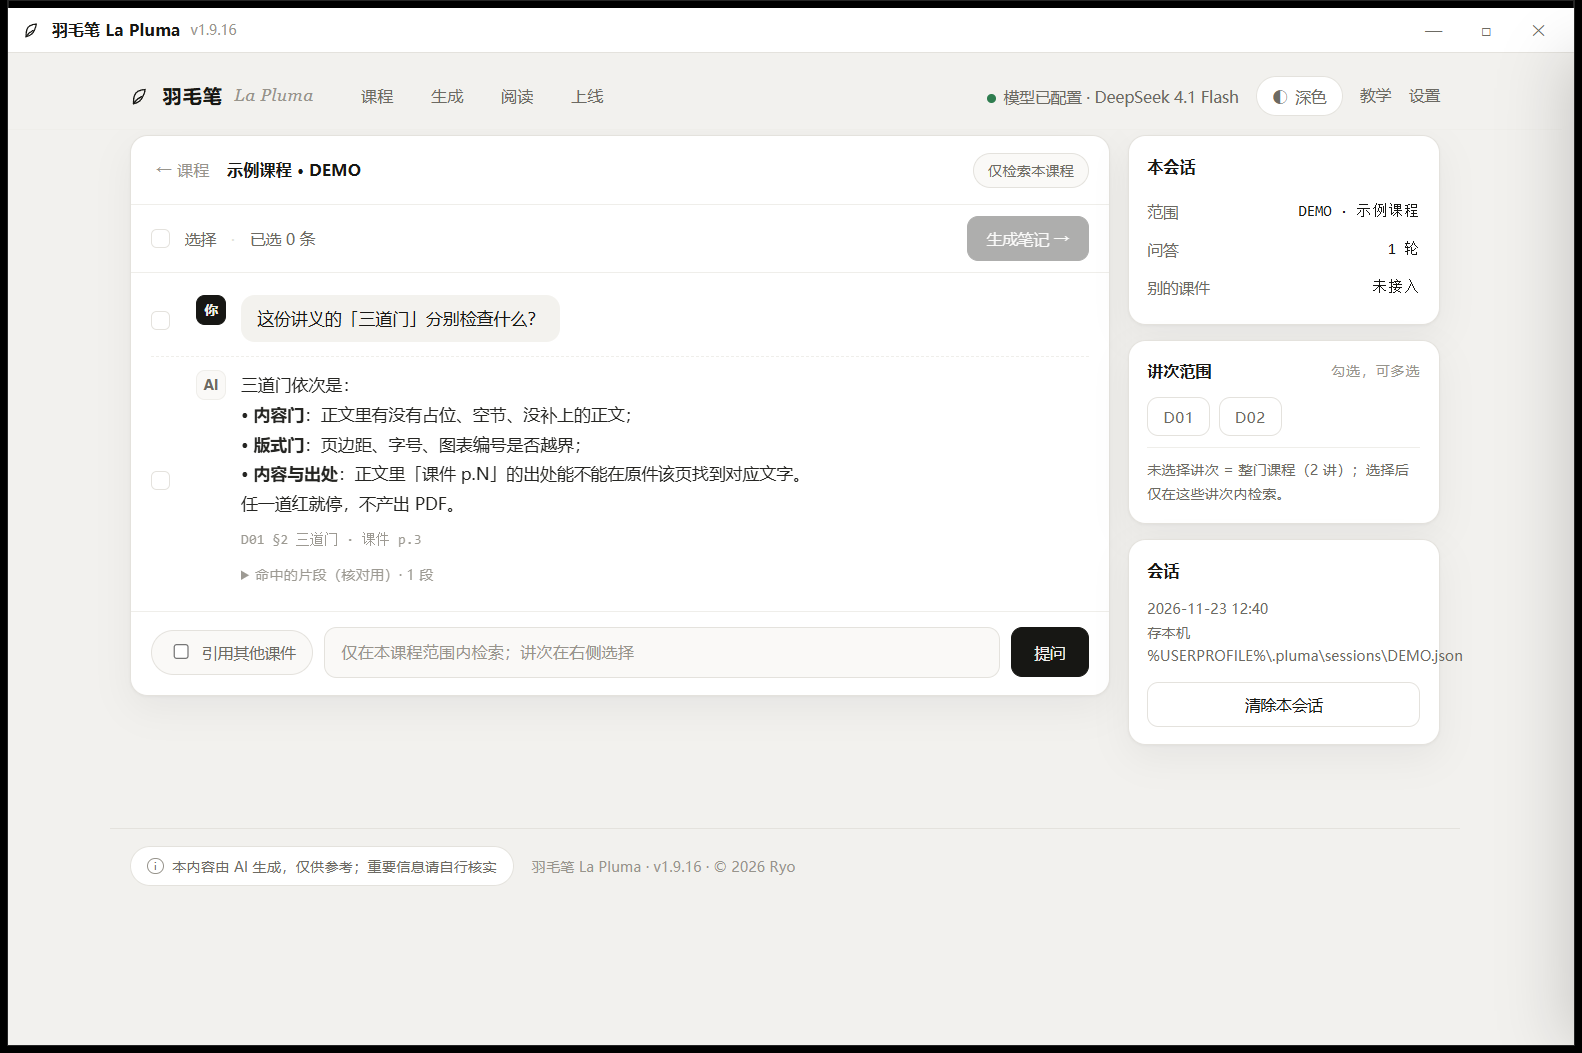
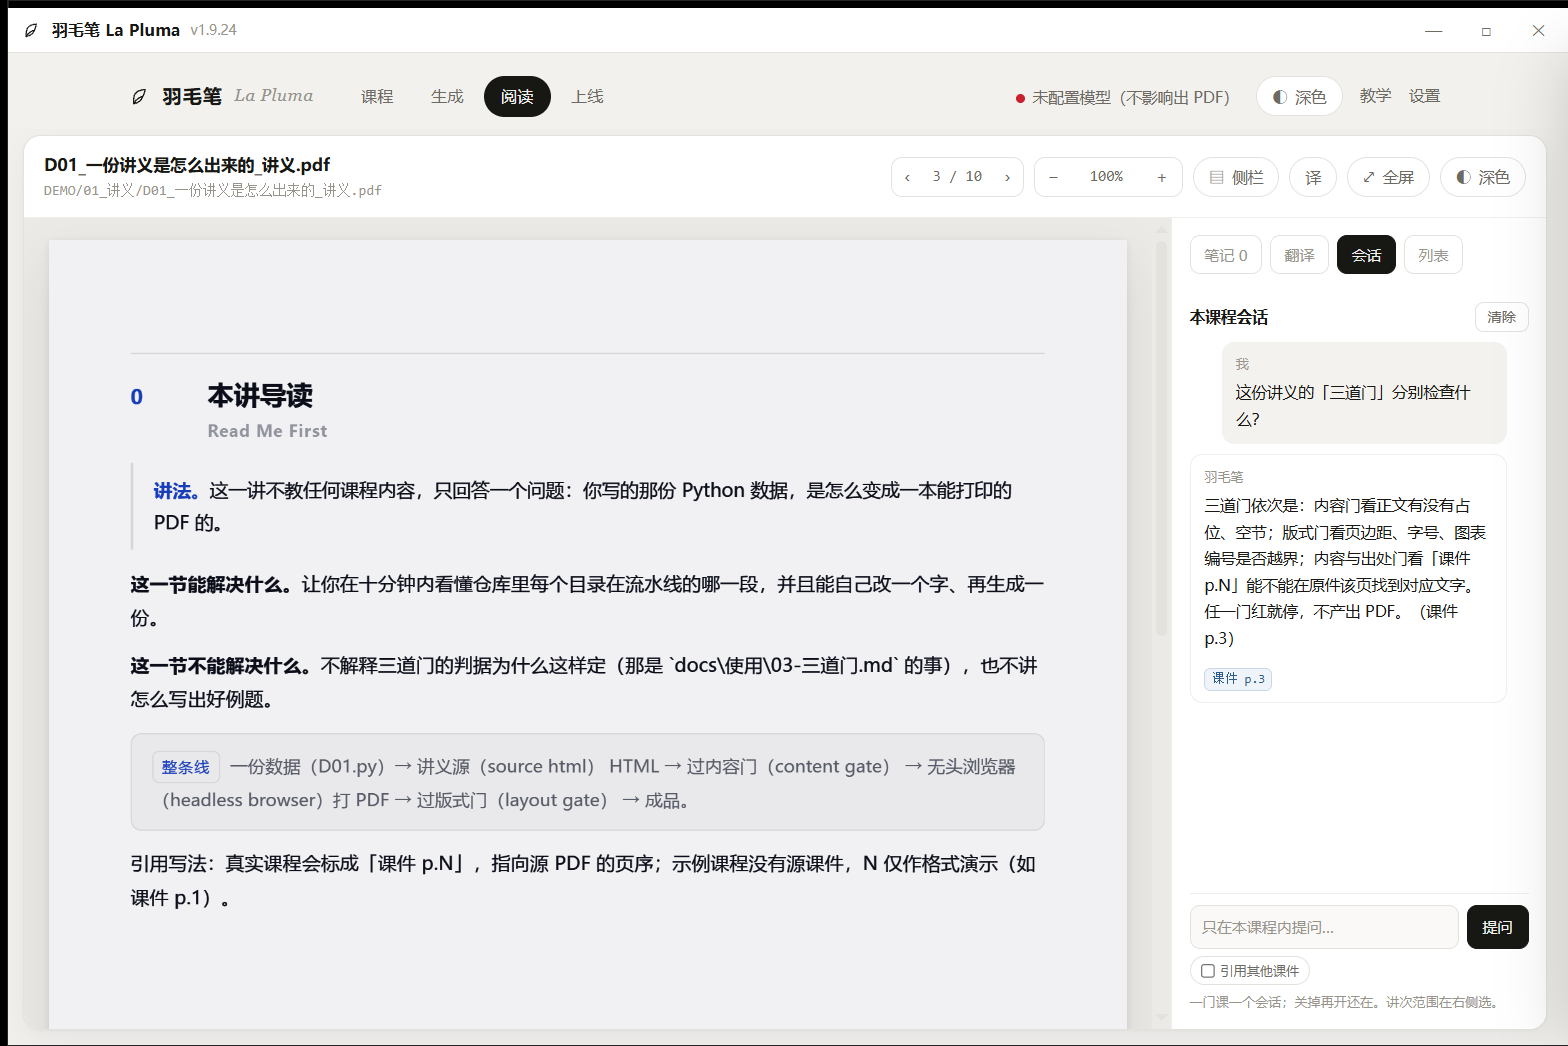
docs(界面): 换成 v1.9.24 真窗口截图（会话改侧栏版式）+ 重做主页介绍图

diff --git a/README.md b/README.md
@@ -138,13 +138,13 @@ python engine\_make.py L01
 
 ## 界面
 
-界面分为**四个分页（课程 / 生成 / 阅读 / 上线）**，外加课件会话与搜索面板，支持日间 / 夜间两套主题。以下截图均来自示例课程 DEMO，1440×900。
+界面分为**四个分页（课程 / 生成 / 阅读 / 上线）**，外加搜索面板与阅读页侧栏（笔记 / 翻译 / 会话 / 列表），支持日间 / 夜间两套主题。以下截图均为**软件自己的窗口**（PrintWindow 抓取，1568×1046），内容用示例课程 DEMO。
 
 <div align="center">
-<img src="docs/资产/界面-会话.png" alt="课件会话：回答附 §节号与课件页码" width="820">
+<img src="docs/资产/界面-会话.png" alt="阅读侧栏的会话页签：回答附 §节号与课件页码，出处片可跳原件" width="820">
 </div>
 
-<p align="center"><sub><b>课件会话</b>：一门课一个会话；回答仅依据该课程的内容数据，每条附 §节号与课件页码，命中片段可展开核对。</sub></p>
+<p align="center"><sub><b>会话（阅读侧栏）</b>：v1.9.24 起会话是阅读页侧栏的一个页签（笔记 / 翻译 / 会话 / 列表），边读边问；回答仅依据该课程的内容数据，每条附 §节号与课件页码，出处片「课件 p.N」点一下跳原件该页。整门课的会话页仍可从课程抽屉「提问本课程 →」进入。</sub></p>
 
 <div align="center">
 <img src="docs/资产/界面-搜索.png" alt="课程旁的放大镜：分课程与课件两组结果，每行可直接导出" width="820">
@@ -176,7 +176,7 @@ python engine\_make.py L01
 - **导入原件**：抽屉顶部「＋ 导入课件」选文件，或把 PDF / 图片直接拖进窗口；原件存到该课 `00_原件\`，与成品分两段列出，同样可点开在内读
 - **阅读**（分页三）：应用内阅读 PDF，支持翻页、缩放、**全屏**（按钮或 F 键，Esc 退出），右侧栏可边读边记；深色主题下正文反相，位图（课件原图）保持原色
 - **笔记**：记录在当前页；「添加到这份 PDF」生成副本，将笔记作为附页追加至末尾（不改动原件）
-- **会话**：抽屉底部「提问本课程 →」进入该课程专属会话，答案附节号与课件页码；讲次可多选，跨课件引用需显式开启
+- **会话**：两个入口——阅读页侧栏「会话」页签（边读边问，v1.9.24 起），或抽屉底部「提问本课程 →」进入整门课的会话页；答案附节号与课件页码，讲次可多选，跨课件引用需显式开启
 - **导出笔记**：勾选消息 → 生成笔记 → 选择讲义（可多选）追加至末尾（默认本地整理，不消耗 token）
 - **生成**（分页二）：选择课程与讲次（可多选）→ 确认免责声明 → 开始；任务进入队列（可逐项取消），成功后自动移除，失败标红
 - **上线**（分页四）：一键上线 → 局域网地址 + 8 位访问码；数据全部留在本机
